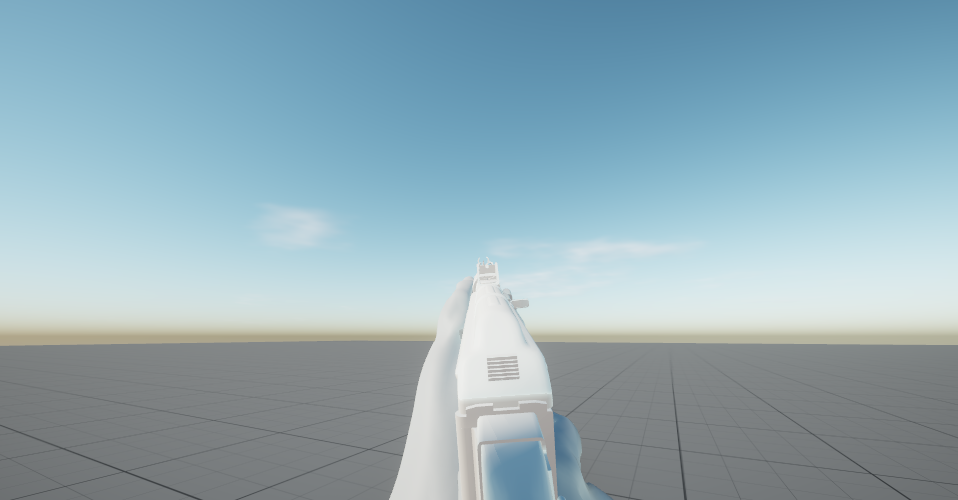
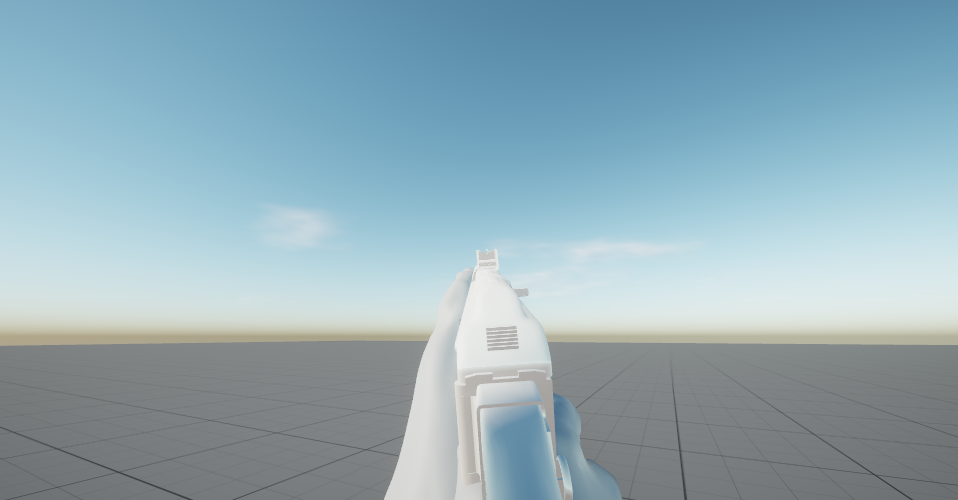
Keep AK IK targets in upper-body pose split

diff --git a/src/editor/SelfTest.cpp b/src/editor/SelfTest.cpp
@@ -1459,6 +1459,59 @@ public class AnimApiDefaults : MonoBehaviour
         std::snprintf(msg, sizeof(msg), "walking pelvis %.2f rad, FP spine model rotation %.2f rad", pelvisModelAngle, spineModelAngle);
         t.Check(std::fabs(pelvisModelAngle - 0.45f) < 0.01f && std::fabs(spineModelAngle - 0.8f) < 0.01f, msg);
 
+        // IK markers are separate skeleton branches on the AE character. Walking pelvis motion
+        // must not displace the FP weapon and hand markers when the layer overrides them.
+        Skeleton split;
+        split.names = { "root", "pelvis", "thigh_l", "spine_01", "hand_l", "ik_hand_gun", "ik_hand_l", "ik_hand_r" };
+        split.parents = { -1, 0, 1, 1, 3, 1, 1, 1 };
+        split.rest.resize(split.names.size());
+        for (int b = 0; b < static_cast<int>(split.names.size()); ++b) split.index[split.names[b]] = b;
+        split.root = 0;
+        split.pelvis = 1;
+        auto makeSplitClip = [&](const char* name, float pelvisX, float legAngle, float weaponX) {
+            AnimationClip clip;
+            clip.name = name;
+            clip.fps = 1.0f;
+            clip.duration = 1.0f;
+            clip.frameCount = 2;
+            for (int b = 0; b < static_cast<int>(split.names.size()); ++b)
+            {
+                AnimationClip::Track track;
+                track.bone = split.names[b];
+                track.rest = split.rest[b];
+                track.frames = { split.rest[b], split.rest[b] };
+                if (b == 1) track.frames[1].t.x = pelvisX;
+                if (b == 2) track.frames[1].r = glm::angleAxis(legAngle, glm::vec3(0, 0, 1));
+                if (b >= 5) track.frames[1].t.x = weaponX + static_cast<float>(b - 5) * 0.1f;
+                clip.trackIndex[track.bone] = b;
+                clip.tracks.push_back(track);
+            }
+            return clip;
+        };
+        clips.Add("masktest:splitwalk", makeSplitClip("split walk", 2.0f, 0.5f, 9.0f));
+        clips.Add("masktest:splitfp", makeSplitClip("split fp", 0.0f, 0.0f, 1.0f));
+        AnimatorController splitController;
+        splitController.Base().states = { idle };
+        splitController.Base().states[0].clip = "masktest:splitwalk";
+        splitController.Base().defaultState = "Idle";
+        AnimLayer splitUpper;
+        splitUpper.name = "AK Upper";
+        splitUpper.mask = { "spine_01", "ik_hand_gun", "ik_hand_l", "ik_hand_r" };
+        splitUpper.meshSpaceRotation = true;
+        splitUpper.states = { raise };
+        splitUpper.states[0].clip = "masktest:splitfp";
+        splitUpper.defaultState = "Raise";
+        splitController.layers.push_back(splitUpper);
+        instance.Reset(splitController);
+        instance.Update(1.0f, clips, split, false, pose, motion);
+        PoseToModel(split, pose, splitModel);
+        const bool exactSplit = std::fabs(pose[1].t.x - 2.0f) < 1e-4f &&
+                                std::fabs(2.0f * std::acos(std::clamp(pose[2].r.w, -1.0f, 1.0f)) - 0.5f) < 0.01f &&
+                                std::fabs(glm::vec3(splitModel[5][3]).x - 1.0f) < 1e-4f &&
+                                std::fabs(glm::vec3(splitModel[6][3]).x - 1.1f) < 1e-4f &&
+                                std::fabs(glm::vec3(splitModel[7][3]).x - 1.2f) < 1e-4f;
+        t.Check(exactSplit, "pelvis and leg use locomotion while spine and all hand/weapon IK markers use FP");
+
         AnimatorController missing = controller;
         missing.layers[1].maskAsset = "Assets/_missing_test.mask";
         missing.layers[1].RefreshMaskAsset();

diff --git a/src/editor/EditorAnimator.cpp b/src/editor/EditorAnimator.cpp
@@ -289,6 +289,15 @@ void Editor::DrawAnimator()
     if (ImGui::SmallButton("Frame All")) m_AnimFrameRequest = true;
     ImGui::SameLine();
     if (ImGui::SmallButton("Show in Project")) SelectAsset(m_AnimCtrlPath);
+    if (live)
+    {
+        const Entity* animated = m_Scene.Find(live);
+        if (animated && !animated->animator.rig.empty())
+        {
+            ImGui::SameLine();
+            if (ImGui::SmallButton("Edit Rig Graph")) OpenRig(animated->animator.rig);
+        }
+    }
     ImGui::Separator();
 
     const float leftW = 210.0f, rightW = 300.0f;
@@ -452,6 +461,16 @@ void Editor::DrawAnimator()
     }
     if (m_AnimLayer > 0)
     {
+        ImGui::TextDisabled("Pose source and bone split");
+        if (ImGui::Button("Use spine_01 upper body + weapon IK", ImVec2(-FLT_MIN, 0)))
+        {
+            layer.maskAsset.clear();
+            layer.mask = { "spine_01", "ik_hand_gun", "ik_hand_l", "ik_hand_r" };
+            layer.blending = AnimLayerBlending::Override;
+            layer.meshSpaceRotation = true;
+            MarkAnimEdited();
+        }
+        ImGui::TextWrapped("This layer owns spine_01 and every child, plus the three AK IK targets. The base layer owns pelvis and legs.");
         float weight = instance ? instance->LayerWeight(m_AnimLayer) : layer.weight;
         ImGui::SetNextItemWidth(-FLT_MIN);
         if (ImGui::SliderFloat("##layerWeight", &weight, 0.0f, 1.0f, "Weight %.2f"))
@@ -539,7 +558,7 @@ void Editor::DrawAnimator()
             char maskText[256];
             std::snprintf(maskText, sizeof(maskText), "%s", mask.c_str());
             ImGui::SetNextItemWidth(-FLT_MIN);
-            if (ImGui::InputTextWithHint("##mask", "Inline mask bones (legacy)", maskText, sizeof(maskText), ImGuiInputTextFlags_EnterReturnsTrue))
+            if (ImGui::InputTextWithHint("##mask", "Bones owned by this layer", maskText, sizeof(maskText), ImGuiInputTextFlags_EnterReturnsTrue))
             {
                 layer.mask.clear();
                 std::string token;

diff --git a/src/anim/AnimatorController.cpp b/src/anim/AnimatorController.cpp
@@ -893,7 +893,17 @@ void AnimatorInstance::Update(float dt, ClipLibrary& clips, const Skeleton& skel
                     const glm::quat target = glm::slerp(baseModel, glm::dot(baseModel, layerModel) < 0.0f ? -layerModel : layerModel, w);
                     const glm::quat parentModel = glm::normalize(glm::quat_cast(glm::mat3(m_BaseModel[parent])));
                     pose[b].r = glm::normalize(glm::inverse(parentModel) * target);
-                    pose[b].t = glm::mix(pose[b].t, m_LayerPose[b].t, w);
+                    // IK targets often sit outside the deforming spine hierarchy. Their model-space
+                    // position must come from the FP clip as well, or walking hips drag the weapon
+                    // and hand targets even though these bones are inside the upper-body mask.
+                    if (skeleton.names[b].rfind("ik_", 0) == 0)
+                    {
+                        const glm::vec3 basePosition(m_BaseModel[b][3]);
+                        const glm::vec3 layerPosition(m_LayerModel[b][3]);
+                        const glm::vec3 modelPosition = glm::mix(basePosition, layerPosition, w);
+                        pose[b].t = glm::vec3(glm::inverse(m_BaseModel[parent]) * glm::vec4(modelPosition, 1.0f));
+                    }
+                    else pose[b].t = glm::mix(pose[b].t, m_LayerPose[b].t, w);
                 }
                 else pose[b] = Blend(pose[b], m_LayerPose[b], w);
             }

diff --git a/docs/animation-controller-rig-design.md b/docs/animation-controller-rig-design.md
@@ -1,0 +1,7 @@
+# Animation Controller pose graph direction
+
+The AK controller uses two pose sources: locomotion for `root`, `pelvis`, and legs; the AK first-person clip for `spine_01` and every descendant. The gun and both hand IK markers are separate skeleton branches, so the upper layer explicitly includes `ik_hand_gun`, `ik_hand_l`, and `ik_hand_r`. At mask boundaries, the spine keeps pelvis translation but takes the FP model-space rotation. IK markers take the FP model-space position and rotation so walking hips cannot move their targets. Rig operations then run in order: copy the authored weapon marker, apply the weapon rotation offset, copy authored hand targets, apply spine/head look, and solve the arms.
+
+The immediate authoring path is in the Animator layer panel: **Use spine_01 upper body + weapon IK** writes those four roots into the controller's own layer mask. The `.mask` asset remains optional for sharing a mask. **Edit Rig Graph** opens the active character's rig from the controller, but the existing rig graph is still a separate serialized asset and editor.
+
+The intended next editor model follows Godot's [AnimationTree blend graph](https://docs.godotengine.org/en/stable/tutorials/animation/animation_tree.html): one controller graph with typed pose pins and a required Output node. An AK graph would be `Locomotion → Layered Blend (lower input)`, `FP AK Idle → Layered Blend (upper input)`, then `Copy Gun Marker → Weapon Offset → Copy Grip Targets → Look → Two Bone IK L/R → Output`. The layered blend node owns a bone filter edited through a searchable skeleton tree; `spine_01` shows its descendants, and the three IK markers are checked explicitly. A node inspector exposes named transform and weight fields, not serialized numeric slots. The graph should save node IDs, positions, connections, and parameters in the `.controller`; execution should topologically evaluate the same pose stream used by the current controller and rig operations. Cycle and missing-bone validation must run before saving. This replaces the current rig line editor only after controller serialization and runtime evaluation support the same node order, so the AK graph does not silently lose its weapon offset or grip constraints.
